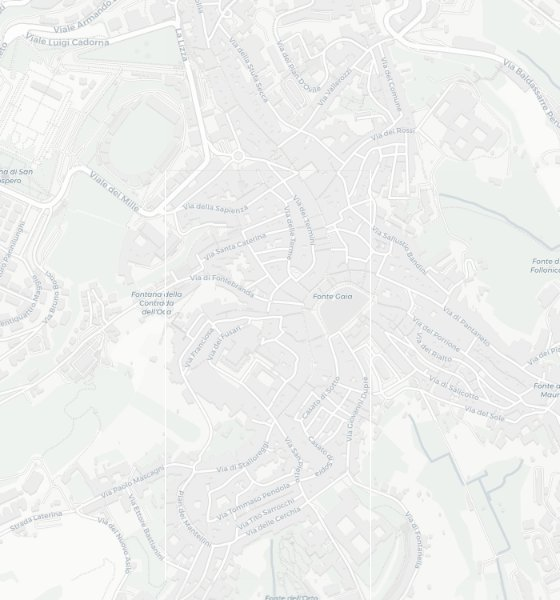
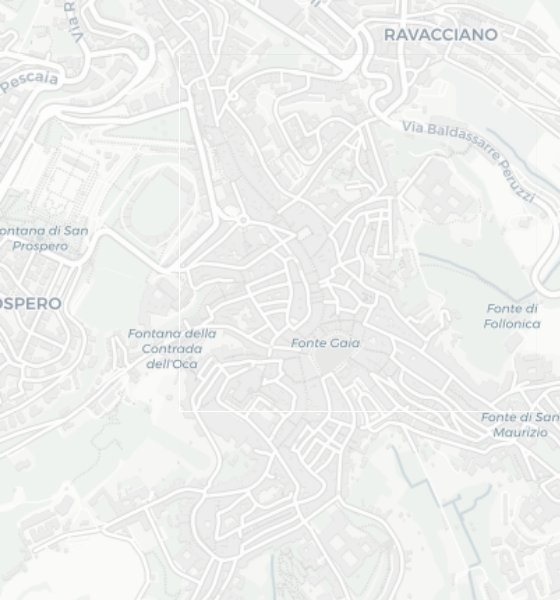
ディナー候補5店を追加（ビステッカ/トスカーナ・予約方法メモ付き）
- 新規3店: Locanda dell'Oste / Trattoria Fonte Giusta / Osteria La Sosta di Violante
  （Googleマップ短縮URLから店名・座標を解決、地区判定、Google画像、予約情報を付与）
- 既存2店(San Giuseppe / Bagoga)に候補フラグ・予約メモ・地図リンクを追記
- 「ディナー候補」バッジ（緑）、予約情報の表示（カード/詳細）、
  タグ「候補」「ディナー候補」で絞り込み可
- 詳細の地図リンクは各店の実際のGoogleマップURL(gmap)を優先
- 基準地図・投影(SIENA_PROJ)を新規3店込みで再生成。レストラン26件に更新。アセット v=5。

Claude-Session: https://claude.ai/code/session_01QbUEptjWZ4snJctKo8co4e

diff --git a/data/data.js b/data/data.js
@@ -272,6 +272,9 @@ window.SIENA_DATA = {
     {
       id: "san-giuseppe",
       lat: 43.315489, lng: 11.331754, zone: "南部・外周部",
+      candidate: true,
+      reservation: "電話予約のみ（ビステッカも名物）",
+      gmap: "https://maps.app.goo.gl/XeQHRTL5T1ZVmYz1A",
       name: "ラ・タヴェルナ・ディ・サン・ジュゼッペ",
       nameOrig: "La Taverna di San Giuseppe",
       categories: ["クラシック"],
@@ -288,7 +291,7 @@ window.SIENA_DATA = {
       highlights: "紀元前3世紀のエトルリア時代の家を利用し、岩盤を掘ったワインセラー（700種超）を持つ歴史的店。職人手彫りのテーブル。伝統＋創意のバランスとサービスの温かさで知られ、2007年からミシュラン掲載、2026年版ビブグルマン。予約は数日〜数ヶ月前推奨、19時/21時の2部制が多い。",
       dishes: ["tartufo", "bistecca", "cinghiale", "pici", "ribollita", "gnudi"],
       specialties: ["トリュフのニョッキ／マルファッティ", "ガッレット・アル・マットーネ（レンガ窯焼き若鶏）", "ビステッカ", "リコッタとほうれん草のマルファッティ"],
-      tags: ["クラシック", "ミシュラン", "洞窟", "予約必須", "ワイン", "高級寄り"],
+      tags: ["候補", "ディナー候補", "ビステッカ", "クラシック", "ミシュラン", "洞窟", "予約必須", "ワイン", "高級寄り"],
       image: "https://lh3.googleusercontent.com/p/AF1QipPLk-qkvnPh0tX2pH5TD4SfU7YfFIGrEe-mM4TH=w1000"
     },
     {
@@ -382,6 +385,9 @@ window.SIENA_DATA = {
     {
       id: "bagoga",
       lat: 43.319322, lng: 11.329567, zone: "サン・ドメニコ／フォンテブランダ",
+      candidate: true,
+      reservation: "ネット予約可（7/6は満席・7/7は空きあり）",
+      gmap: "https://maps.app.goo.gl/SVMnPTSbiZeFJodL8",
       name: "ラ・グロッタ・ディ・サンタ・カテリーナ・ダ・バゴガ",
       nameOrig: "Grotta Santa Caterina da Bagoga",
       categories: ["有名", "クラシック"],
@@ -398,7 +404,7 @@ window.SIENA_DATA = {
       highlights: "1973年創業。シェフのピエリーノ・ファニャーニ氏はパリオの元騎手『バゴガ』として知られるカリスマで、1986年にイタリア全土の料理コンクール最優秀賞を受賞。中世の洞窟のような店内に騎手時代のパリオ写真。",
       dishes: ["bistecca", "cinta-senese", "pici"],
       specialties: ["キアニーナ牛のビステッカ", "ラルド・ディ・コロンナータ巻きチンタ豚フィレ", "低温で2時間以上煮込んだインド鶏", "サプライズ・テイスティング（約€70）"],
-      tags: ["有名", "クラシック", "洞窟", "パリオ", "物語性"],
+      tags: ["候補", "ディナー候補", "ビステッカ", "有名", "クラシック", "洞窟", "パリオ", "物語性"],
       image: "https://lh3.googleusercontent.com/p/AF1QipMDzBw_5O12yQkcuxn389kh88XPZD1JqqeTaxKG=w1000"
     },
     {
@@ -774,6 +780,82 @@ window.SIENA_DATA = {
       specialties: ["リコッタとマジョラムの自家製ラビオリ", "レモンアイオリのイカのフリット"],
       tags: ["有名", "ロマンチック", "ワイン", "小皿"],
       image: "https://encrypted-tbn0.gstatic.com/images?q=tbn:ANd9GcQq1aYT1qLWbRN_CNcAVWKBh0vQQ6UobiLpTj-CT9JB8w&s=10"
+    }
+  ,
+    {
+      id: "locanda-oste",
+      lat: 43.3166162, lng: 11.3328905, zone: "カンポ広場周辺",
+      name: "ロカンダ・デッロステ",
+      nameOrig: "Locanda dell'Oste",
+      categories: ["トスカーナ料理"],
+      badges: ["ディナー候補", "電話予約のみ"],
+      candidate: true,
+      reservation: "電話予約のみ",
+      price: "要確認",
+      priceLevel: 3,
+      hours: "要確認（訪問前に確認）",
+      closed: "要確認",
+      address: "シエナ歴史地区（カンポ広場周辺）",
+      area: "カンポ広場周辺",
+      mapQuery: "Locanda dell'Oste, Siena, Italy",
+      gmap: "https://maps.app.goo.gl/1faTg1ps2ZhW7fjcA",
+      site: "",
+      reviews: "ディナー候補（トスカーナ料理全般）。予約は電話のみ。",
+      highlights: "トスカーナ料理全般を提供。ビステッカなどの肉料理も。ディナーの候補店。予約は電話のみ受付。",
+      dishes: ["bistecca", "pici", "cinghiale"],
+      specialties: ["トスカーナ料理各種", "ビステッカ"],
+      tags: ["候補", "ディナー候補", "トスカーナ料理", "予約:電話"],
+      image: "https://encrypted-tbn0.gstatic.com/images?q=tbn:ANd9GcRW91iCJQMrVKLKyDhybnvPcObmGvseoYpQ6d8LfwdcpA&s=10"
+    },
+    {
+      id: "fonte-giusta",
+      lat: 43.3256405, lng: 11.3271627, zone: "メディチ要塞／北西部",
+      name: "トラットリア・フォンテ・ジュスタ",
+      nameOrig: "Trattoria Fonte Giusta",
+      categories: ["ビステッカ専門"],
+      badges: ["ディナー候補", "ネット予約可"],
+      candidate: true,
+      reservation: "ネット予約可（空き状況は要確認）",
+      price: "要確認",
+      priceLevel: 3,
+      hours: "要確認（訪問前に確認）",
+      closed: "要確認",
+      address: "シエナ歴史地区 北部（フォンテ・ジュスタ付近）",
+      area: "北部（カモッリア門付近）",
+      mapQuery: "Trattoria Fonte Giusta, Siena, Italy",
+      gmap: "https://maps.app.goo.gl/cfHFdNGSz1PZvCBC6",
+      site: "",
+      reviews: "ビステッカ専門のディナー候補。ネット予約が可能（空き状況は要確認）。",
+      highlights: "ビステッカ・アッラ・フィオレンティーナが名物のトラットリア。ネット予約が可能（空き状況は要確認）。歴史地区北部。",
+      dishes: ["bistecca"],
+      specialties: ["ビステッカ・アッラ・フィオレンティーナ"],
+      tags: ["候補", "ディナー候補", "ビステッカ", "予約:ネット"],
+      image: "https://lh3.googleusercontent.com/p/AF1QipO21kwePIgB6zYrvAjlW_WiGhp1GJsendTkRFWa=w1000"
+    },
+    {
+      id: "sosta-violante",
+      lat: 43.3174485, lng: 11.3363454, zone: "カンポ広場周辺",
+      name: "オステリア・ラ・ソスタ・ディ・ヴィオランテ",
+      nameOrig: "Osteria La Sosta di Violante",
+      categories: ["トスカーナ料理"],
+      badges: ["ディナー候補", "メール・電話予約"],
+      candidate: true,
+      reservation: "Gmail（メール）・電話で予約",
+      price: "要確認",
+      priceLevel: 3,
+      hours: "要確認（訪問前に確認）",
+      closed: "要確認",
+      address: "シエナ歴史地区 東部（ヴィア・パンタネート付近）",
+      area: "東部（サン・ジョルジョ付近）",
+      mapQuery: "Osteria La Sosta di Violante, Siena, Italy",
+      gmap: "https://maps.app.goo.gl/XPXMb8g29uahuiUk8",
+      site: "",
+      reviews: "トスカーナ料理全般のディナー候補。予約はメール（Gmail）または電話。",
+      highlights: "トスカーナ料理全般を提供するオステリア。ディナー候補。予約はメール（Gmail）または電話で受付。",
+      dishes: ["bistecca", "pici", "cinghiale"],
+      specialties: ["トスカーナ料理各種"],
+      tags: ["候補", "ディナー候補", "トスカーナ料理", "予約:メール/電話"],
+      image: "https://encrypted-tbn0.gstatic.com/images?q=tbn:ANd9GcTImup6H4sl330y7tj7miee4Ygx6lFLhIZ4hhktcC92MA&s=10"
     }
   ],
 
@@ -1204,4 +1286,4 @@ window.SIENA_DATA = {
 
 
 /* 各地点の基準地図(images/map/siena-base.jpg 560x600)上の位置(%) */
-window.SIENA_PROJ = {"san-giuseppe":{"x":61.79,"y":77},"logge":{"x":72.5,"y":51.33},"divo":{"x":35.36,"y":57.83},"campo-cedro":{"x":54.11,"y":19.5},"tartufo":{"x":85.36,"y":68.67},"bagoga":{"x":47.14,"y":44.33},"mugolone":{"x":52.14,"y":52.33},"terzi":{"x":55.36,"y":43.5},"vinattieri":{"x":51.07,"y":36.33},"trombicche":{"x":51.79,"y":35.67},"particolare":{"x":93.93,"y":13.83},"capitano":{"x":48.39,"y":68.17},"salefino":{"x":36.96,"y":7.83},"chiacchera":{"x":42.14,"y":37.5},"svitati":{"x":45.36,"y":41.33},"permalico":{"x":50.36,"y":69.5},"grattacielo":{"x":54.82,"y":36.17},"papei":{"x":66.61,"y":63.83},"nonna-gina":{"x":33.93,"y":78.5},"pretto":{"x":55.36,"y":45.33},"tellina":{"x":52.32,"y":37.5},"nannini":{"x":54.64,"y":31},"zest":{"x":61.96,"y":56.5},"campo":{"x":60.54,"y":51.83},"fonte-gaia":{"x":59.29,"y":49.33},"palazzo-pubblico":{"x":63.57,"y":55.67},"torre-mangia":{"x":63.57,"y":55.67},"duomo":{"x":40.71,"y":57.5},"piccolomini":{"x":40.36,"y":57},"battistero":{"x":45.18,"y":54.83},"cripta":{"x":45.54,"y":56.5},"museo-opera":{"x":40,"y":61.67},"facciatone":{"x":40,"y":61.67},"porta-cielo":{"x":40.71,"y":57.5},"santa-maria-scala":{"x":42.86,"y":64.33},"pinacoteca":{"x":53.21,"y":75.33},"san-domenico":{"x":30.54,"y":33.67},"casa-caterina":{"x":41.07,"y":39.17},"san-francesco":{"x":76.96,"y":21.17},"san-bernardino":{"x":76.96,"y":21.17},"fortezza":{"x":6.07,"y":19.17},"orto-botanico":{"x":57.14,"y":92},"provenzano":{"x":67.86,"y":30.17},"contrada":{"x":60.54,"y":51.83},"__meta":{"w":560,"h":600,"zoom":15.677904468579053}};
+window.SIENA_PROJ = {"san-giuseppe":{"x":60.18,"y":81.17},"logge":{"x":69.46,"y":58.83},"divo":{"x":37.14,"y":64.5},"campo-cedro":{"x":53.39,"y":31.17},"tartufo":{"x":80.71,"y":73.83},"bagoga":{"x":47.5,"y":52.67},"mugolone":{"x":51.79,"y":59.83},"terzi":{"x":54.46,"y":52},"vinattieri":{"x":50.89,"y":45.67},"trombicche":{"x":51.61,"y":45.17},"particolare":{"x":88.21,"y":26.17},"capitano":{"x":48.57,"y":73.67},"salefino":{"x":38.57,"y":21},"chiacchera":{"x":43.04,"y":46.83},"svitati":{"x":45.89,"y":50.17},"permalico":{"x":50.18,"y":74.67},"grattacielo":{"x":54.11,"y":45.67},"papei":{"x":64.46,"y":69.67},"nonna-gina":{"x":35.89,"y":82.5},"pretto":{"x":54.64,"y":53.67},"tellina":{"x":51.96,"y":46.83},"nannini":{"x":53.93,"y":41.17},"zest":{"x":60.36,"y":63.33},"locanda-oste":{"x":66.79,"y":72.83},"fonte-giusta":{"x":33.57,"y":5.67},"sosta-violante":{"x":86.79,"y":66.67},"campo":{"x":59.11,"y":59.33},"fonte-gaia":{"x":58.04,"y":57.17},"palazzo-pubblico":{"x":61.61,"y":62.5},"torre-mangia":{"x":61.61,"y":62.5},"duomo":{"x":41.96,"y":64.33},"piccolomini":{"x":41.43,"y":63.83},"battistero":{"x":45.71,"y":62},"cripta":{"x":46.07,"y":63.33},"museo-opera":{"x":41.25,"y":67.83},"facciatone":{"x":41.25,"y":67.83},"porta-cielo":{"x":41.96,"y":64.33},"santa-maria-scala":{"x":43.75,"y":70.33},"pinacoteca":{"x":52.68,"y":79.83},"san-domenico":{"x":33.04,"y":43.5},"casa-caterina":{"x":42.14,"y":48.17},"san-francesco":{"x":73.39,"y":32.67},"san-bernardino":{"x":73.39,"y":32.67},"fortezza":{"x":11.61,"y":30.83},"orto-botanico":{"x":56.07,"y":94.33},"provenzano":{"x":65.54,"y":40.33},"contrada":{"x":59.11,"y":59.33},"__meta":{"w":560,"h":600,"zoom":15.479729321714617}};

diff --git a/css/style.css b/css/style.css
@@ -294,3 +294,14 @@ img{max-width:100%;display:block}
   .zone-chip-inline{background:rgba(201,162,75,.14)}
   .loc-map,.mc-toggle,.mc-select,#leaflet-map{border-color:var(--line)}
 }
+
+/* ===== v5: ディナー候補 / 予約表示 ===== */
+.badge.cand{background:#2e7d46;color:#fff}
+.resv{display:inline-flex;align-items:center;gap:4px;font-weight:700;color:#2e7d46;
+  background:rgba(46,125,70,.10);padding:2px 9px;border-radius:999px}
+.m-info .resv-dd{color:#2e7d46;font-weight:700}
+@media (prefers-color-scheme:dark){
+  .resv{color:#7ed19b;background:rgba(126,209,155,.12)}
+  .m-info .resv-dd{color:#7ed19b}
+  .badge.cand{background:#2e7d46}
+}

diff --git a/js/app.js b/js/app.js
@@ -74,9 +74,11 @@
 
   /* ---------- カード ---------- */
   function cardHtml(item, type) {
-    var badges = (item.badges || []).slice(0, 2).map(function (b, i) {
+    var badgeArr = (item.badges || []).slice(0, 2).map(function (b, i) {
       return '<span class="badge' + (i === 0 ? " gold" : "") + '">' + escapeHtml(b) + "</span>";
-    }).join("");
+    });
+    if (item.candidate) badgeArr.unshift('<span class="badge cand">🍖 ディナー候補</span>');
+    var badges = badgeArr.join("");
     var cats = (item.categories || []).map(function (c) {
       return '<span class="cat-pill">' + escapeHtml(c) + "</span>";
     }).join("");
@@ -84,6 +86,7 @@
 
     var metaBits = [];
     if (item.price) metaBits.push('<span>💰 ' + escapeHtml(item.price) + "</span>");
+    if (item.reservation) metaBits.push('<span class="resv">🎫 ' + escapeHtml(item.reservation) + "</span>");
     if (item.zone) metaBits.push('<span class="zone-chip-inline">📍 ' + escapeHtml(item.zone) + "</span>");
     else if (item.area) metaBits.push('<span>📍 ' + escapeHtml(item.area) + "</span>");
     if (type === "foods" && item.restaurants) metaBits.push('<span>🍽️ ' + item.restaurants.length + "軒で提供</span>");
@@ -317,7 +320,8 @@
       locMapHtml(item.id, type, "modal-loc") + "</div>";
   }
   function mapChip(item) {
-    var link = '<a class="link-chip map" href="' + mapUrl(item.mapQuery || item.name + " Siena Italy") +
+    var href = item.gmap ? item.gmap : mapUrl(item.mapQuery || item.name + " Siena Italy");
+    var link = '<a class="link-chip map" href="' + escapeAttr(href) +
       '" target="_blank" rel="noopener">🗺️ Googleマップで開く</a>';
     var imgs = '<a class="link-chip" href="' + imgSearchUrl((item.nameOrig || item.name) + " Siena") +
       '" target="_blank" rel="noopener">📷 写真を検索</a>';
@@ -361,6 +365,7 @@
   function restaurantModal(item) {
     var info = '<dl class="m-info">' +
       row("カテゴリー", (item.categories || []).join(" / ")) + row("価格帯", item.price) +
+      (item.reservation ? '<dt>予約</dt><dd class="resv-dd">' + escapeHtml(item.reservation) + "</dd>" : "") +
       row("営業時間", item.hours) + row("定休", item.closed) +
       row("地区", item.zone) + row("住所", item.address) + "</dl>";
     return media(item, true) + '<div class="m-content">' +

diff --git a/guide.html b/guide.html
@@ -7,7 +7,7 @@
 <meta name="description" content="イタリア・シエナのレストラン・郷土料理・観光名所ガイド。検索・タグ・地図付き。">
 <title>シエナ 美食・観光ガイド</title>
 <link rel="stylesheet" href="https://unpkg.com/leaflet@1.9.4/dist/leaflet.css" crossorigin="">
-<link rel="stylesheet" href="css/style.css?v=4">
+<link rel="stylesheet" href="css/style.css?v=5">
 <script>
 /* セーフティネット: 何らかのスクリプトエラーで真っ白になっても原因を画面に表示する */
 window.addEventListener('error', function (e) {
@@ -98,7 +98,7 @@ window.addEventListener('error', function (e) {
 </div>
 
 <script src="https://unpkg.com/leaflet@1.9.4/dist/leaflet.js" crossorigin=""></script>
-<script src="data/data.js?v=4"></script>
-<script src="js/app.js?v=4"></script>
+<script src="data/data.js?v=5"></script>
+<script src="js/app.js?v=5"></script>
 </body>
 </html>

diff --git a/index.html b/index.html
@@ -6,7 +6,7 @@
 <meta name="theme-color" content="#5e211c">
 <meta name="description" content="イタリア・トスカーナ、シエナのレストラン・郷土料理・観光名所ガイド。検索・タグ・地図付き。">
 <title>シエナ 美食・観光ガイド</title>
-<link rel="stylesheet" href="css/style.css?v=4">
+<link rel="stylesheet" href="css/style.css?v=5">
 <style>
 /* ===== ランディング ===== */
 .lp{min-height:100vh;min-height:100dvh;position:relative;display:flex;flex-direction:column;
@@ -66,9 +66,9 @@
   <div class="lp-inner">
     <h1 class="lp-title">シエナ</h1>
     <p class="lp-sub">美食・観光ガイド</p>
-    <p class="lp-desc">中世の街並みが残るトスカーナの宝石、シエナ。ピチやチンタ・セネーゼ豚の郷土料理から、カンポ広場・大聖堂といった名所まで。レストラン23・郷土料理21・観光名所21を、検索・タグ・地図付きでまとめました。</p>
+    <p class="lp-desc">中世の街並みが残るトスカーナの宝石、シエナ。ピチやチンタ・セネーゼ豚の郷土料理から、カンポ広場・大聖堂といった名所まで。レストラン26・郷土料理21・観光名所21を、検索・タグ・地図付きでまとめました。</p>
     <div class="lp-stats">
-      <div class="lp-stat"><b>23</b><span>レストラン</span></div>
+      <div class="lp-stat"><b>26</b><span>レストラン</span></div>
       <div class="lp-stat"><b>21</b><span>郷土料理</span></div>
       <div class="lp-stat"><b>21</b><span>観光名所</span></div>
     </div>

diff --git a/tools/fetch_restaurant_image_urls.py b/tools/fetch_restaurant_image_urls.py
@@ -42,6 +42,9 @@ QUERIES = {
     "tellina": "Trattoria La Tellina Siena",
     "nannini": "Nannini Siena pasticceria caffe",
     "zest": "Zest ristorante Siena Costa dei Barbieri interno",
+    "locanda-oste": "Locanda dell'Oste Siena ristorante",
+    "fonte-giusta": "Trattoria Fonte Giusta Siena ristorante",
+    "sosta-violante": "Osteria La Sosta di Violante Siena",
 }
 
 RE_MAPS = re.compile(r"https://lh3\.googleusercontent\.com/p/AF1Qip[A-Za-z0-9_-]+")

diff --git a/README.md b/README.md
@@ -5,7 +5,7 @@
 ## 特徴
 
 - **トップページ**（`index.html`）：シエナ全景を背景にしたランディング。各セクションへの導線。
-- **ガイド本体**（`guide.html`）：5タブ構成 — レストラン（23）／食べ物（21）／観光（21）／マップ／地区
+- **ガイド本体**（`guide.html`）：5タブ構成 — レストラン（26）／食べ物（21）／観光（21）／マップ／地区
 - **全文検索**：店名・料理名・エリア・地区・特徴などを横断検索
 - **タグ絞り込み**：カテゴリや特徴のタグでフィルタ（多い場合は折りたたみ表示）
 - **詳細モーダル**：営業時間・価格・レビュー・見どころ・名物・**位置マップ**などを表示